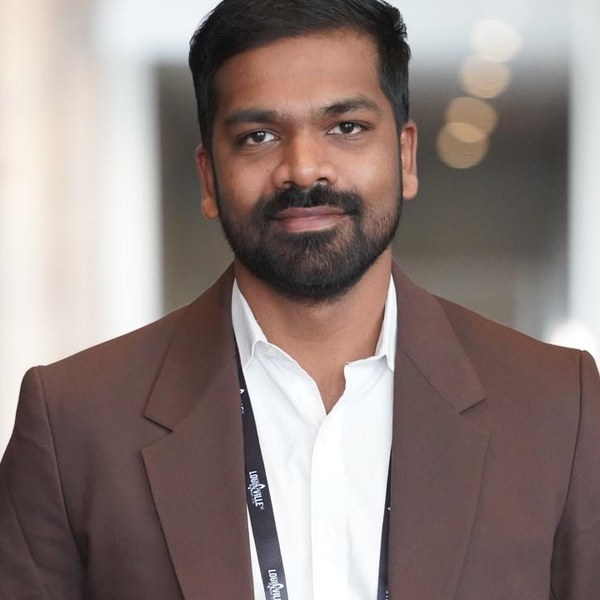
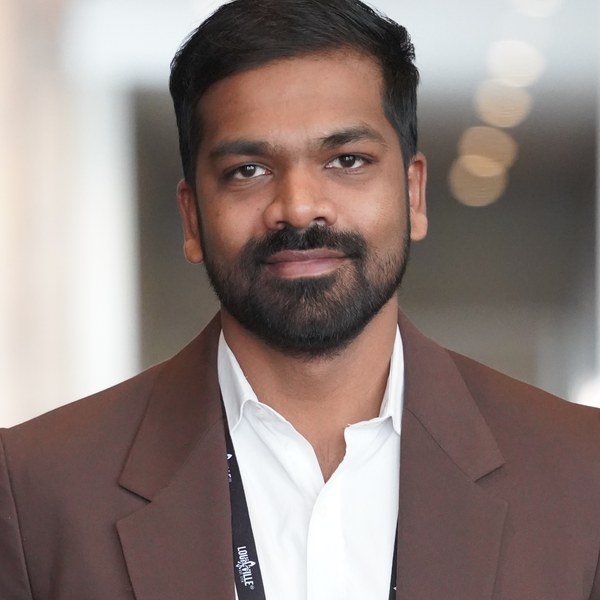
updates

diff --git a/index.html b/index.html
@@ -213,7 +213,7 @@
 
   <!-- ============ SIDEBAR ============ -->
   <aside class="sidebar reveal">
-    <img class="portrait" src="assets/img/portrait.jpg?v=2" alt="Ashish Adhikari" />
+    <img class="portrait" src="assets/img/portrait.jpg?v=3" alt="Ashish Adhikari" />
     <a class="cv-btn" href="assets/cv/Ashish_Resume.pdf?v=4">📄 Curriculum Vitae</a>
     <div class="iconcol">
       <a href="mailto:adhikari.143@osu.edu">✉ adhikari.143@osu.edu</a>
